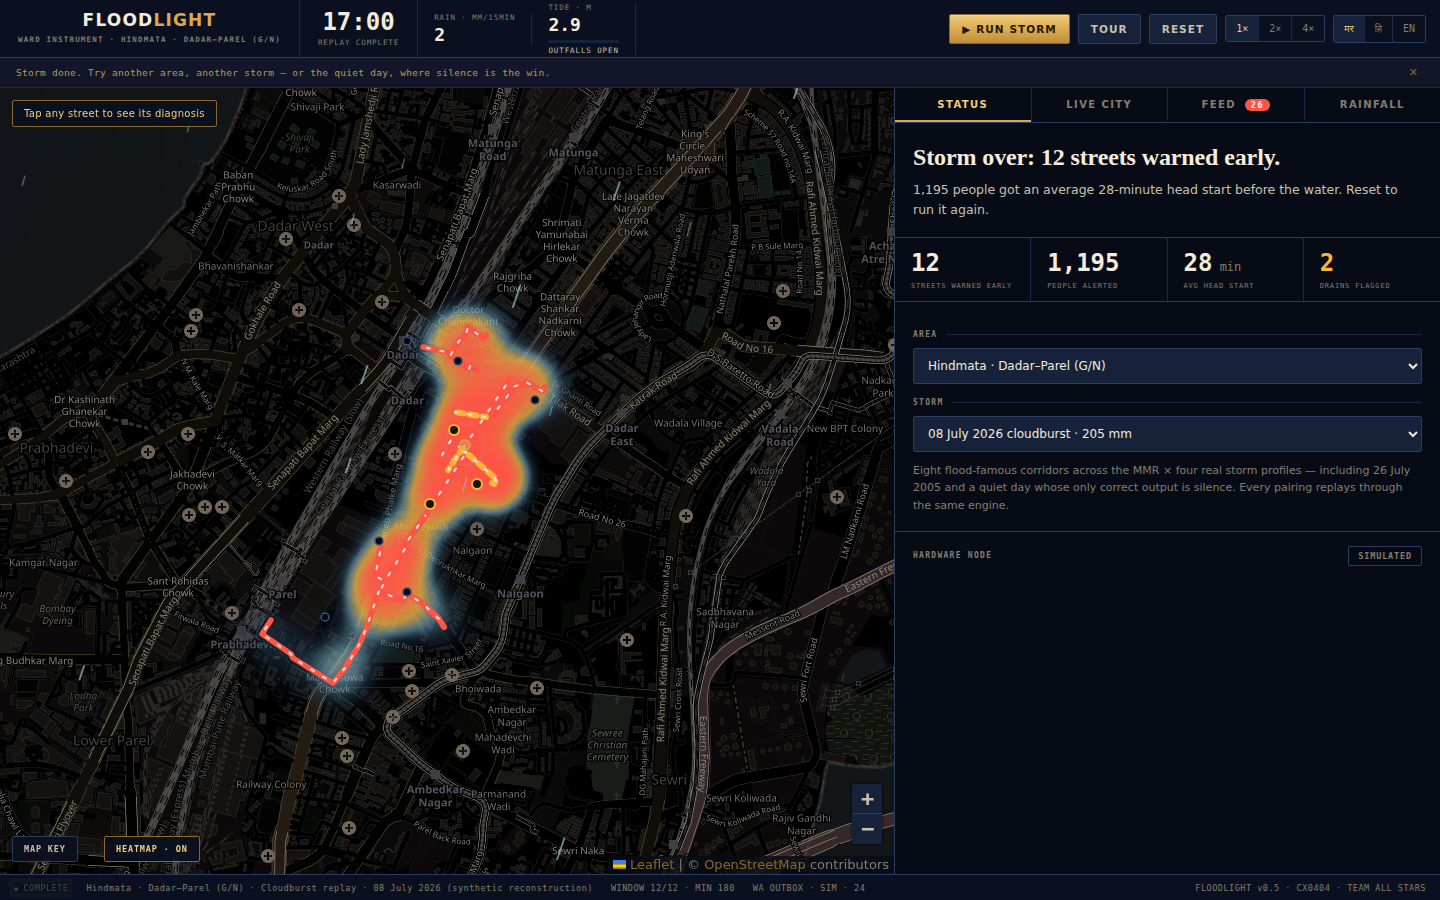
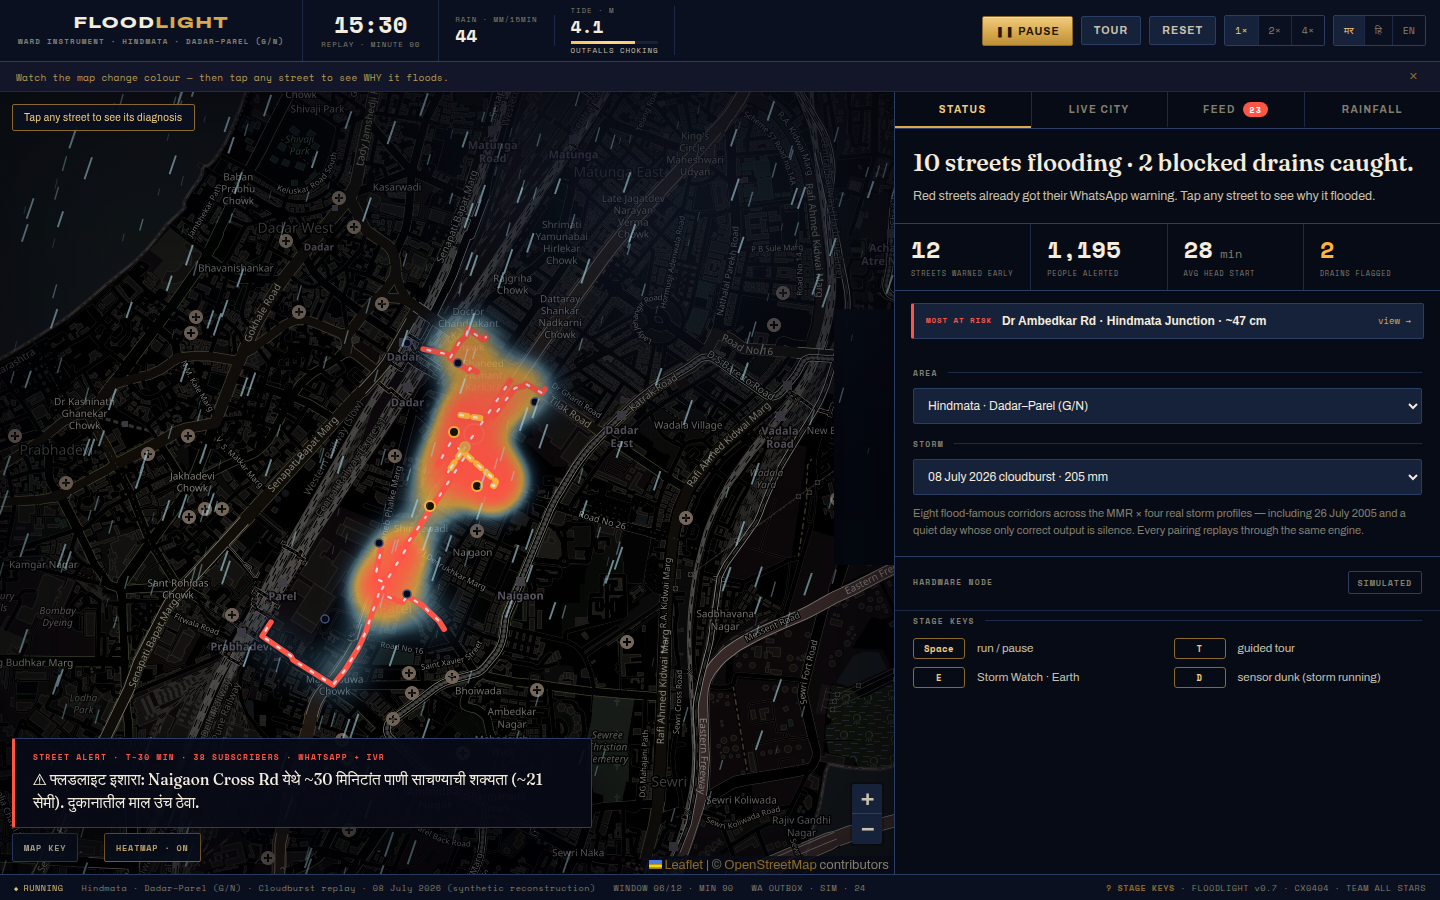
docs: refresh war-room screenshot in current skin; add pocket-copy PWA tip to runbook
Claude-Session: https://claude.ai/code/session_01NCAyqExnhYcrByms5d1zCM

diff --git a/docs/DEMO.md b/docs/DEMO.md
@@ -56,6 +56,12 @@ Fonts are self-hosted, so the design is pixel-identical offline; the replay, tou
 and 2005 all run from the local process. Only map tiles, the satellite layer and live rain
 need internet, and they degrade gracefully. (macOS/Linux: `python run.py`.)
 
+## Pocket copy
+
+FLOODLIGHT installs as an app: open `floodlight.onrender.com/app` on your phone →
+browser menu → **Add to Home Screen**. It launches full-screen with its own icon — the
+hallway demo while judges walk between tables, and a second screen if the laptop misbehaves.
+
 ## Timing note for 10:00 IST
 
 At demo time it is mid-day across South-East Asia — peak convection over Jakarta, Manila,
